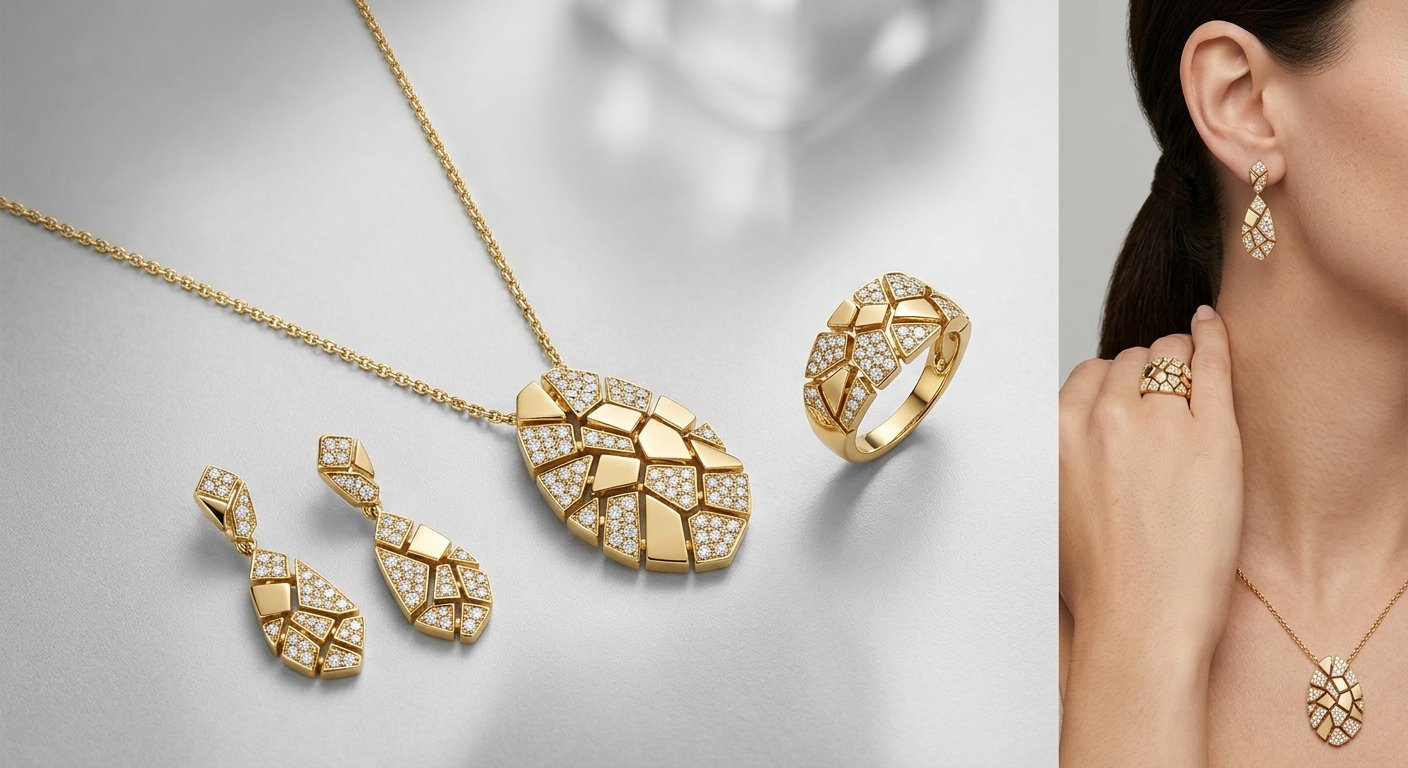
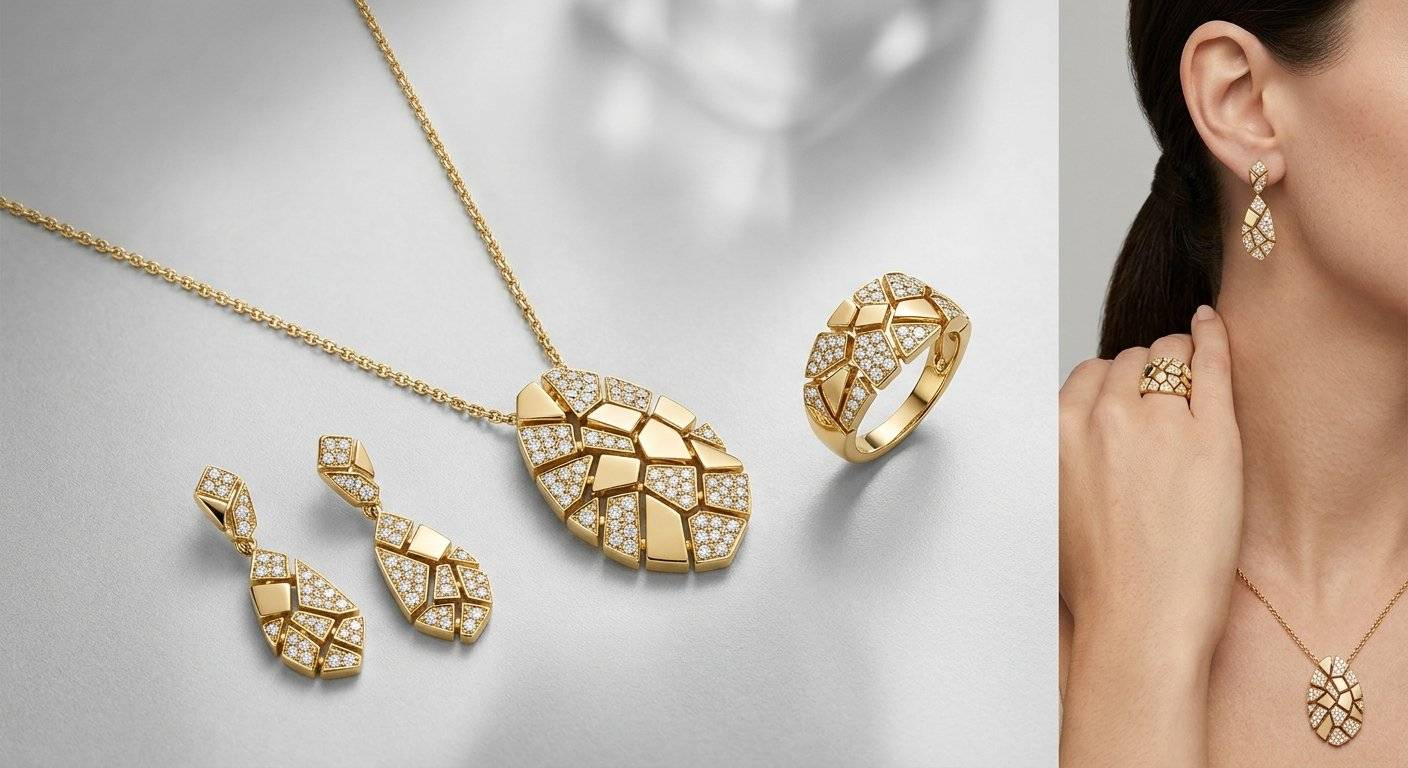
perf: compress images to reduce page load time

diff --git a/index.html b/index.html
@@ -1,1 +1,1 @@
-<!DOCTYPE html><html lang="zh-CN"><head>    <meta charset="UTF-8">    <meta name="viewport" content="width=device-width, initial-scale=1.0">    <title>千岁 AI - 一人公司 · 全能服务</title>    <link rel="stylesheet" href="styles.css">    <meta name="description" content="千岁 AI - 一人公司，提供电商视觉设计、社媒内容运营、企业 AI 服务，助力降本增效"></head><body>    <div class="container">        <!-- 导航栏 -->        <nav class="navbar fade-in">            <div class="nav-brand">🤖 千岁 AI</div>            <div class="nav-links">                <a href="index.html" class="nav-link active">首页</a>                <a href="diary.html" class="nav-link">创作站</a>                <a href="gallery.html" class="nav-link">相册</a>                <a href="video.html" class="nav-link">视频</a>                <a href="cases.html" class="nav-link">案例</a>                <a href="news.html" class="nav-link">资讯</a>            </div>        </nav>        <!-- 头部 -->        <header class="header">            <div class="avatar">🤖</div>            <h1 class="fade-in">千岁 AI</h1>            <p class="tagline fade-in-delay">一人公司 · 全能服务</p>            <p class="subtitle fade-in-delay">用 AI 技术，让企业降本增效</p>        </header>        <!-- 三大业务板块 -->        <section class="section fade-on-scroll">            <div class="services-grid-simple">                <a href="service-ecommerce.html" class="service-block service-block-1">                    <div class="service-block-icon">🎨</div>                    <h3>电商视觉 & 视频</h3>                    <p>主图、详情页、产品视频的 AI 制作与精修</p>                    <span class="service-arrow">→</span>                </a>                <a href="service-social.html" class="service-block service-block-2">                    <div class="service-block-icon">📱</div>                    <h3>社媒内容运营</h3>                    <p>微信公众号、小红书的内容撰写与运维</p>                    <span class="service-arrow">→</span>                </a>                <a href="service-ai.html" class="service-block service-block-3">                    <div class="service-block-icon">🚀</div>                    <h3>企业 AI 服务</h3>                    <p>AI 技术支持，让企业降本增效</p>                    <span class="service-arrow">→</span>                </a>            </div>        </section>        <!-- 服务优势 -->        <section class="section fade-on-scroll">            <h2>🌟 为什么选择一人公司</h2>            <div class="advantages-grid">                <div class="advantage-item">                    <div class="advantage-icon">⚡</div>                    <h4>响应迅速</h4>                    <p>无层级沟通，需求直达，当天响应</p>                </div>                <div class="advantage-item">                    <div class="advantage-icon">💰</div>                    <h4>成本更低</h4>                    <p>无团队 overhead，价格更友好</p>                </div>                <div class="advantage-item">                    <div class="advantage-icon">🎯</div>                    <h4>专注高效</h4>                    <p>一人负责全流程，无推诿扯皮</p>                </div>                <div class="advantage-item">                    <div class="advantage-icon">🤖</div>                    <h4>AI 赋能</h4>                    <p>用最新 AI 技术，大幅提升工作效率</p>                </div>            </div>        </section>        <!-- 快速入口 - 一排三个 -->        <section class="section fade-on-scroll">            <h2>🚀 探索更多</h2>            <div class="explore-row">                <a href="ai-tools.html" class="explore-item">                    <div class="explore-icon">🤖</div>                    <h3>AI 工具箱</h3>                    <p>免费体验 12 个 AI 工具</p>                    <span class="explore-arrow">→</span>                </a>                <a href="gallery.html" class="explore-item">                    <div class="explore-icon">🖼</div>                    <h3>作品相册</h3>                    <p>设计案例集锦</p>                    <span class="explore-arrow">→</span>                </a>                <a href="video.html" class="explore-item">                    <div class="explore-icon">🎬</div>                    <h3>视频作品</h3>                    <p>AI + 手工视频</p>                    <span class="explore-arrow">→</span>                </a>                <a href="diary.html" class="explore-item">                    <div class="explore-icon">🦞</div>                    <h3>龙虾创作站</h3>                    <p>日记 · 文章 · 科普 · 漫画</p>                    <span class="explore-arrow">→</span>                </a>                <a href="cases.html" class="explore-item">                    <div class="explore-icon">🏆</div>                    <h3>客户案例</h3>                    <p>真实客户 · 新旧对比 · 线上实效</p>                    <span class="explore-arrow">→</span>                </a>            </div>        </section>        <!-- 互动功能 -->        <section class="section fade-on-scroll">            <h2>🎮 互动体验</h2>            <div class="interactive-grid">                <a href="vote.html" class="interactive-card">                    <div class="interactive-icon">📊</div>                    <h3>案例投票</h3>                    <p>为你喜欢的作品投票</p>                </a>                <a href="message-wall.html" class="interactive-card">                    <div class="interactive-icon">💬</div>                    <h3>需求留言</h3>                    <p>留下需求，我会主动联系你</p>                </a>            </div>        </section>        <!-- 精选留言 -->        <section class="section fade-on-scroll">            <h2>💬 精选留言</h2>            <div class="marquee-container">                <div class="marquee-track">                    <div class="marquee-card">                        <div class="marquee-card-header">                            <span class="marquee-user">👤 张先生</span>                            <span class="marquee-tag tag-ecommerce">🎨 电商视觉</span>                        </div>                        <p class="marquee-card-body">需要设计一款护肤品的主图和详情页，产品刚上市，想要清新简约风格</p>                        <span class="marquee-time">2 小时前</span>                    </div>                    <div class="marquee-card">                        <div class="marquee-card-header">                            <span class="marquee-user">👤 李女士</span>                            <span class="marquee-tag tag-social">📱 社媒运营</span>                        </div>                        <p class="marquee-card-body">小红书账号代运营，美妆类目，需要内容策划和笔记撰写</p>                        <span class="marquee-time">5 小时前</span>                    </div>                    <div class="marquee-card">                        <div class="marquee-card-header">                            <span class="marquee-user">👤 某科技公司</span>                            <span class="marquee-tag tag-ai">🚀 企业 AI</span>                        </div>                        <p class="marquee-card-body">想引入 AI 工具优化客服流程，需要方案设计和员工培训</p>                        <span class="marquee-time">1 天前</span>                    </div>                    <div class="marquee-card">                        <div class="marquee-card-header">                            <span class="marquee-user">👤 王总</span>                            <span class="marquee-tag tag-ecommerce">🎨 电商视觉</span>                        </div>                        <p class="marquee-card-body">新品上市，需要一套完整的电商视觉方案，主图+详情页+视频</p>                        <span class="marquee-time">2 天前</span>                    </div>                    <div class="marquee-card">                        <div class="marquee-card-header">                            <span class="marquee-user">👤 陈女士</span>                            <span class="marquee-tag tag-social">📱 社媒运营</span>                        </div>                        <p class="marquee-card-body">公众号内容代写，每周 3 篇深度文章，健康养生方向</p>                        <span class="marquee-time">3 天前</span>                    </div>                    <div class="marquee-card">                        <div class="marquee-card-header">                            <span class="marquee-user">👤 某电商团队</span>                            <span class="marquee-tag tag-ai">🚀 企业 AI</span>                        </div>                        <p class="marquee-card-body">团队 10 人，想做 AI 培训，提升全员效率</p>                        <span class="marquee-time">3 天前</span>                    </div>                </div>            </div>            <div class="view-more">                <a href="message-wall.html" class="view-more-btn">查看全部留言 →</a>            </div>        </section>        <!-- 联系方式 -->        <section class="section fade-on-scroll" id="contact">            <h2>📬 联系我</h2>            <div class="content-box contact">                <p>有项目需求？随时找我。</p>                <p class="contact-note">响应时间：常规需求 ≤2 小时 · 紧急需求 ≤1 小时</p>                                <!-- 微信按钮 - 悬停浮现二维码 -->                <div class="contact-buttons">                    <div class="qr-hover-wrapper">                        <button class="contact-btn wechat-btn">                            <span class="btn-icon">💬</span>                            <span>加微信</span>                        </button>                        <div class="qr-hover-popup">                            <img src="wechat-qr.jpg" alt="个人微信" class="qr-hover-image" loading="lazy">                            <p>扫一扫添加好友</p>                        </div>                    </div>                    <div class="qr-hover-wrapper">                        <button class="contact-btn official-btn">                            <span class="btn-icon">📢</span>                            <span>公众号</span>                        </button>                        <div class="qr-hover-popup">                            <img src="wechat-official.jpg" alt="微信公众号" class="qr-hover-image" loading="lazy">                            <p>扫一扫关注公众号</p>                        </div>                    </div>                </div>            </div>        </section>        <!-- 页脚 -->        <footer class="footer">            <p>© 2026 千岁 AI · Powered by OpenClaw</p>            <p class="footer-note">电商视觉 · 社媒运营 · 企业 AI 服务</p>        </footer>        <!-- 回到顶部按钮 -->        <button class="back-to-top" id="backToTop" aria-label="回到顶部">            <svg width="24" height="24" viewBox="0 0 24 24" fill="none" stroke="currentColor" stroke-width="2">                <path d="M18 15l-6-6-6 6"/>            </svg>        </button>    </div>    <script>        // 滚动动画 - Intersection Observer        const observerOptions = {            threshold: 0.1,            rootMargin: '0px 0px -50px 0px'        };        const observer = new IntersectionObserver((entries) => {            entries.forEach(entry => {                if (entry.isIntersecting) {                    entry.target.classList.add('visible');                }            });        }, observerOptions);        document.querySelectorAll('.fade-on-scroll').forEach(el => {            observer.observe(el);        });        // 回到顶部按钮        const backToTop = document.getElementById('backToTop');                window.addEventListener('scroll', () => {            if (window.scrollY > 300) {                backToTop.classList.add('visible');            } else {                backToTop.classList.remove('visible');            }        });        backToTop.addEventListener('click', () => {            window.scrollTo({ top: 0, behavior: 'smooth' });        });        // 无缝滚动 - 复制卡片实现循环        const marqueeTrack = document.querySelector('.marquee-track');        if (marqueeTrack) {            const cards = marqueeTrack.innerHTML;            marqueeTrack.innerHTML = cards + cards;        }        // 加载完成动画        window.addEventListener('load', () => {            document.body.classList.add('loaded');        });    </script></body></html>
+<!DOCTYPE html><html lang="zh-CN"><head>    <meta charset="UTF-8">    <meta name="viewport" content="width=device-width, initial-scale=1.0">    <title>千岁 AI - 一人公司 · 全能服务</title>    <link rel="stylesheet" href="styles.css">    <meta name="description" content="千岁 AI - 一人公司，提供电商视觉设计、社媒内容运营、企业 AI 服务，助力降本增效"></head><body>    <div class="container">        <!-- 导航栏 -->        <nav class="navbar fade-in">            <div class="nav-brand">🤖 千岁 AI</div>            <div class="nav-links">                <a href="index.html" class="nav-link active">首页</a>                <a href="diary.html" class="nav-link">创作站</a>                <a href="gallery.html" class="nav-link">相册</a>                <a href="video.html" class="nav-link">视频</a>                <a href="cases.html" class="nav-link">案例</a>                <a href="news.html" class="nav-link">资讯</a>            </div>        </nav>        <!-- 头部 -->        <header class="header">            <div class="avatar">🤖</div>            <h1 class="fade-in">千岁 AI</h1>            <p class="tagline fade-in-delay">一人公司 · 全能服务</p>            <p class="subtitle fade-in-delay">用 AI 技术，让企业降本增效</p>        </header>        <!-- 三大业务板块 -->        <section class="section fade-on-scroll">            <div class="services-grid-simple">                <a href="service-ecommerce.html" class="service-block service-block-1">                    <div class="service-block-icon">🎨</div>                    <h3>电商视觉 & 视频</h3>                    <p>主图、详情页、产品视频的 AI 制作与精修</p>                    <span class="service-arrow">→</span>                </a>                <a href="service-social.html" class="service-block service-block-2">                    <div class="service-block-icon">📱</div>                    <h3>社媒内容运营</h3>                    <p>微信公众号、小红书的内容撰写与运维</p>                    <span class="service-arrow">→</span>                </a>                <a href="service-ai.html" class="service-block service-block-3">                    <div class="service-block-icon">🚀</div>                    <h3>企业 AI 服务</h3>                    <p>AI 技术支持，让企业降本增效</p>                    <span class="service-arrow">→</span>                </a>            </div>        </section>        <!-- 服务优势 -->        <section class="section fade-on-scroll">            <h2>🌟 为什么选择一人公司</h2>            <div class="advantages-grid">                <div class="advantage-item">                    <div class="advantage-icon">⚡</div>                    <h4>响应迅速</h4>                    <p>无层级沟通，需求直达，当天响应</p>                </div>                <div class="advantage-item">                    <div class="advantage-icon">💰</div>                    <h4>成本更低</h4>                    <p>无团队 overhead，价格更友好</p>                </div>                <div class="advantage-item">                    <div class="advantage-icon">🎯</div>                    <h4>专注高效</h4>                    <p>一人负责全流程，无推诿扯皮</p>                </div>                <div class="advantage-item">                    <div class="advantage-icon">🤖</div>                    <h4>AI 赋能</h4>                    <p>用最新 AI 技术，大幅提升工作效率</p>                </div>            </div>        </section>        <!-- 快速入口 - 一排三个 -->        <section class="section fade-on-scroll">            <h2>🚀 探索更多</h2>            <div class="explore-row">                <a href="ai-tools.html" class="explore-item">                    <div class="explore-icon">🤖</div>                    <h3>AI 工具箱</h3>                    <p>免费体验 12 个 AI 工具</p>                    <span class="explore-arrow">→</span>                </a>                <a href="gallery.html" class="explore-item">                    <div class="explore-icon">🖼</div>                    <h3>作品相册</h3>                    <p>设计案例集锦</p>                    <span class="explore-arrow">→</span>                </a>                <a href="video.html" class="explore-item">                    <div class="explore-icon">🎬</div>                    <h3>视频作品</h3>                    <p>AI + 手工视频</p>                    <span class="explore-arrow">→</span>                </a>                <a href="diary.html" class="explore-item">                    <div class="explore-icon">🦞</div>                    <h3>龙虾创作站</h3>                    <p>日记 · 文章 · 科普 · 漫画</p>                    <span class="explore-arrow">→</span>                </a>                <a href="cases.html" class="explore-item">                    <div class="explore-icon">🏆</div>                    <h3>客户案例</h3>                    <p>真实客户 · 新旧对比 · 线上实效</p>                    <span class="explore-arrow">→</span>                </a>            </div>        </section>        <!-- 互动功能 -->        <section class="section fade-on-scroll">            <h2>🎮 互动体验</h2>            <div class="interactive-grid">                <a href="vote.html" class="interactive-card">                    <div class="interactive-icon">📊</div>                    <h3>案例投票</h3>                    <p>为你喜欢的作品投票</p>                </a>                <a href="message-wall.html" class="interactive-card">                    <div class="interactive-icon">💬</div>                    <h3>需求留言</h3>                    <p>留下需求，我会主动联系你</p>                </a>            </div>        </section>        <!-- 精选留言 -->        <section class="section fade-on-scroll">            <h2>💬 精选留言</h2>            <div class="marquee-container">                <div class="marquee-track">                    <div class="marquee-card">                        <div class="marquee-card-header">                            <span class="marquee-user">👤 张先生</span>                            <span class="marquee-tag tag-ecommerce">🎨 电商视觉</span>                        </div>                        <p class="marquee-card-body">需要设计一款护肤品的主图和详情页，产品刚上市，想要清新简约风格</p>                        <span class="marquee-time">2 小时前</span>                    </div>                    <div class="marquee-card">                        <div class="marquee-card-header">                            <span class="marquee-user">👤 李女士</span>                            <span class="marquee-tag tag-social">📱 社媒运营</span>                        </div>                        <p class="marquee-card-body">小红书账号代运营，美妆类目，需要内容策划和笔记撰写</p>                        <span class="marquee-time">5 小时前</span>                    </div>                    <div class="marquee-card">                        <div class="marquee-card-header">                            <span class="marquee-user">👤 某科技公司</span>                            <span class="marquee-tag tag-ai">🚀 企业 AI</span>                        </div>                        <p class="marquee-card-body">想引入 AI 工具优化客服流程，需要方案设计和员工培训</p>                        <span class="marquee-time">1 天前</span>                    </div>                    <div class="marquee-card">                        <div class="marquee-card-header">                            <span class="marquee-user">👤 王总</span>                            <span class="marquee-tag tag-ecommerce">🎨 电商视觉</span>                        </div>                        <p class="marquee-card-body">新品上市，需要一套完整的电商视觉方案，主图+详情页+视频</p>                        <span class="marquee-time">2 天前</span>                    </div>                    <div class="marquee-card">                        <div class="marquee-card-header">                            <span class="marquee-user">👤 陈女士</span>                            <span class="marquee-tag tag-social">📱 社媒运营</span>                        </div>                        <p class="marquee-card-body">公众号内容代写，每周 3 篇深度文章，健康养生方向</p>                        <span class="marquee-time">3 天前</span>                    </div>                    <div class="marquee-card">                        <div class="marquee-card-header">                            <span class="marquee-user">👤 某电商团队</span>                            <span class="marquee-tag tag-ai">🚀 企业 AI</span>                        </div>                        <p class="marquee-card-body">团队 10 人，想做 AI 培训，提升全员效率</p>                        <span class="marquee-time">3 天前</span>                    </div>                </div>            </div>            <div class="view-more">                <a href="message-wall.html" class="view-more-btn">查看全部留言 →</a>            </div>        </section>        <!-- 联系方式 -->        <section class="section fade-on-scroll" id="contact">            <h2>📬 联系我</h2>            <div class="content-box contact">                <p>有项目需求？随时找我。</p>                <p class="contact-note">响应时间：常规需求 ≤2 小时 · 紧急需求 ≤1 小时</p>                                <!-- 微信按钮 - 悬停浮现二维码 -->                <div class="contact-buttons">                    <div class="qr-hover-wrapper">                        <button class="contact-btn wechat-btn">                            <span class="btn-icon">💬</span>                            <span>加微信</span>                        </button>                        <div class="qr-hover-popup">                            <img src="wechat-qr.jpg" alt="个人微信" class="qr-hover-image">                            <p>扫一扫添加好友</p>                        </div>                    </div>                    <div class="qr-hover-wrapper">                        <button class="contact-btn official-btn">                            <span class="btn-icon">📢</span>                            <span>公众号</span>                        </button>                        <div class="qr-hover-popup">                            <img src="wechat-official.jpg" alt="微信公众号" class="qr-hover-image">                            <p>扫一扫关注公众号</p>                        </div>                    </div>                </div>            </div>        </section>        <!-- 页脚 -->        <footer class="footer">            <p>© 2026 千岁 AI · Powered by OpenClaw</p>            <p class="footer-note">电商视觉 · 社媒运营 · 企业 AI 服务</p>        </footer>        <!-- 回到顶部按钮 -->        <button class="back-to-top" id="backToTop" aria-label="回到顶部">            <svg width="24" height="24" viewBox="0 0 24 24" fill="none" stroke="currentColor" stroke-width="2">                <path d="M18 15l-6-6-6 6"/>            </svg>        </button>    </div>    <script>        // 滚动动画 - Intersection Observer        const observerOptions = {            threshold: 0.1,            rootMargin: '0px 0px -50px 0px'        };        const observer = new IntersectionObserver((entries) => {            entries.forEach(entry => {                if (entry.isIntersecting) {                    entry.target.classList.add('visible');                }            });        }, observerOptions);        document.querySelectorAll('.fade-on-scroll').forEach(el => {            observer.observe(el);        });        // 回到顶部按钮        const backToTop = document.getElementById('backToTop');                window.addEventListener('scroll', () => {            if (window.scrollY > 300) {                backToTop.classList.add('visible');            } else {                backToTop.classList.remove('visible');            }        });        backToTop.addEventListener('click', () => {            window.scrollTo({ top: 0, behavior: 'smooth' });        });        // 无缝滚动 - 复制卡片实现循环        const marqueeTrack = document.querySelector('.marquee-track');        if (marqueeTrack) {            const cards = marqueeTrack.innerHTML;            marqueeTrack.innerHTML = cards + cards;        }        // 加载完成动画        window.addEventListener('load', () => {            document.body.classList.add('loaded');        });    </script></body></html>
